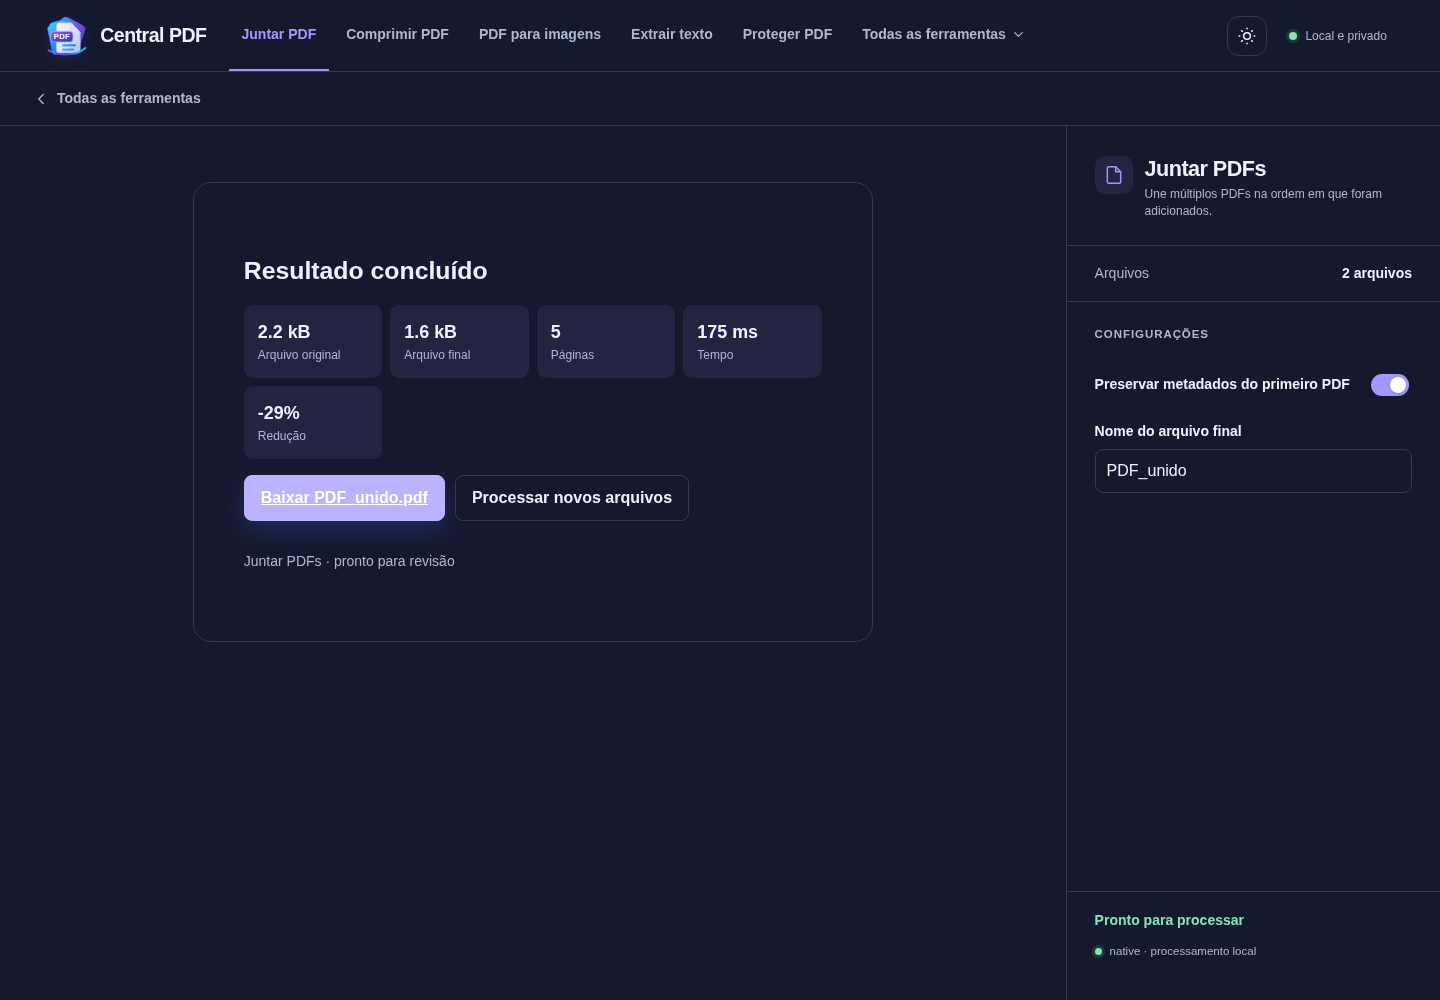
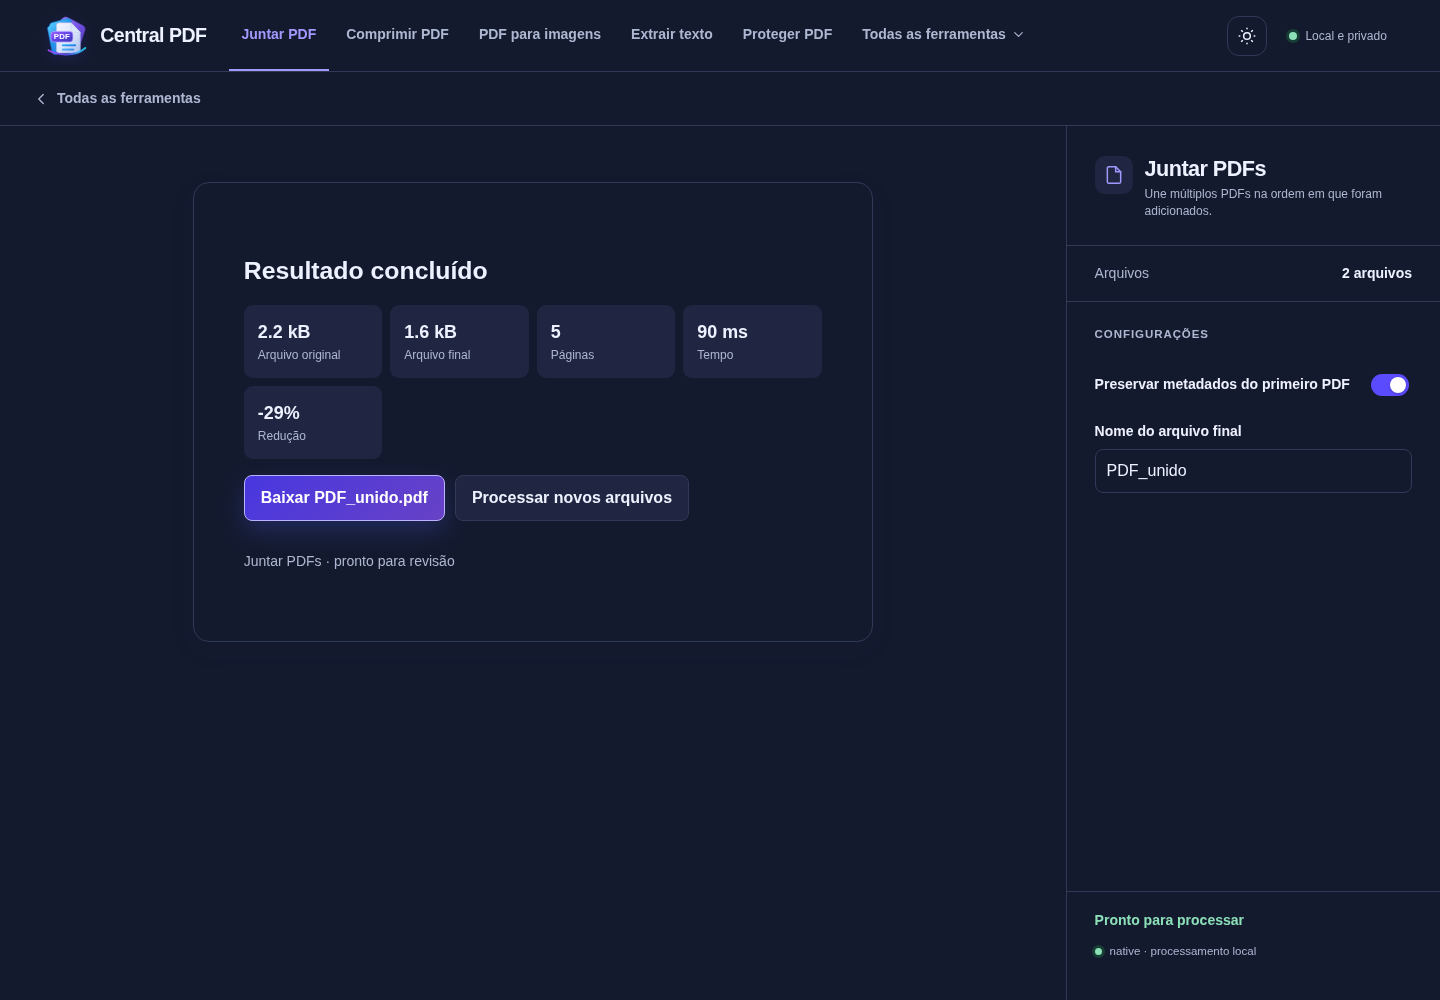
test(react): refresh evidence after primary action contrast correction

Changed region(s): [[0.1562, 0.465, 0.3125, 0.527], [0.4688, 0.31, 0.5312, 0.341], [0.9375, 0.372, 0.9688, 0.403]]

diff --git a/docs/testing/centralpdf-3/REACT.md b/docs/testing/centralpdf-3/REACT.md
@@ -38,3 +38,8 @@ experimentais continuam experimentais; não se promove o catálogo parcial.
 
 Rollback: reverter estilo 3.0, marca e apresentação/preferência do tema; não
 apagar os arquivos do usuário ou o estado do produto principal.
+
+A revisão visual detectou contraste baixo no botão primário do tema escuro.
+O seletor foi alinhado ao componente real `.cp-btn--primary`, preservando o
+texto claro sobre degradê escuro. Build e teste de navegador com a fusão real
+foram repetidos com sucesso; as capturas desta pasta mostram a correção final.
